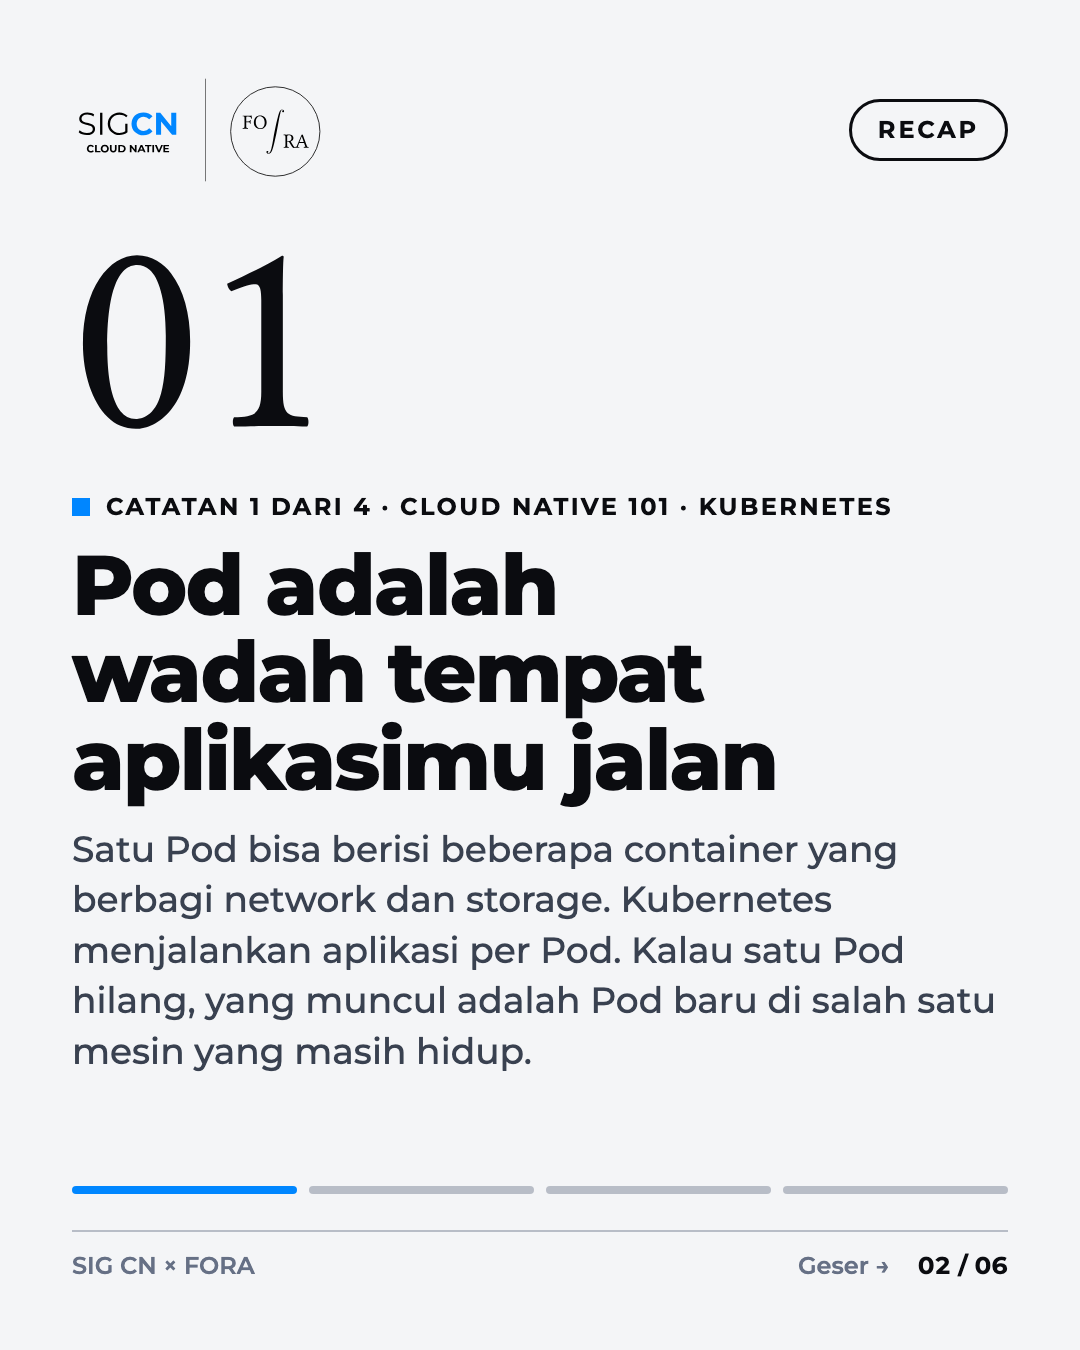
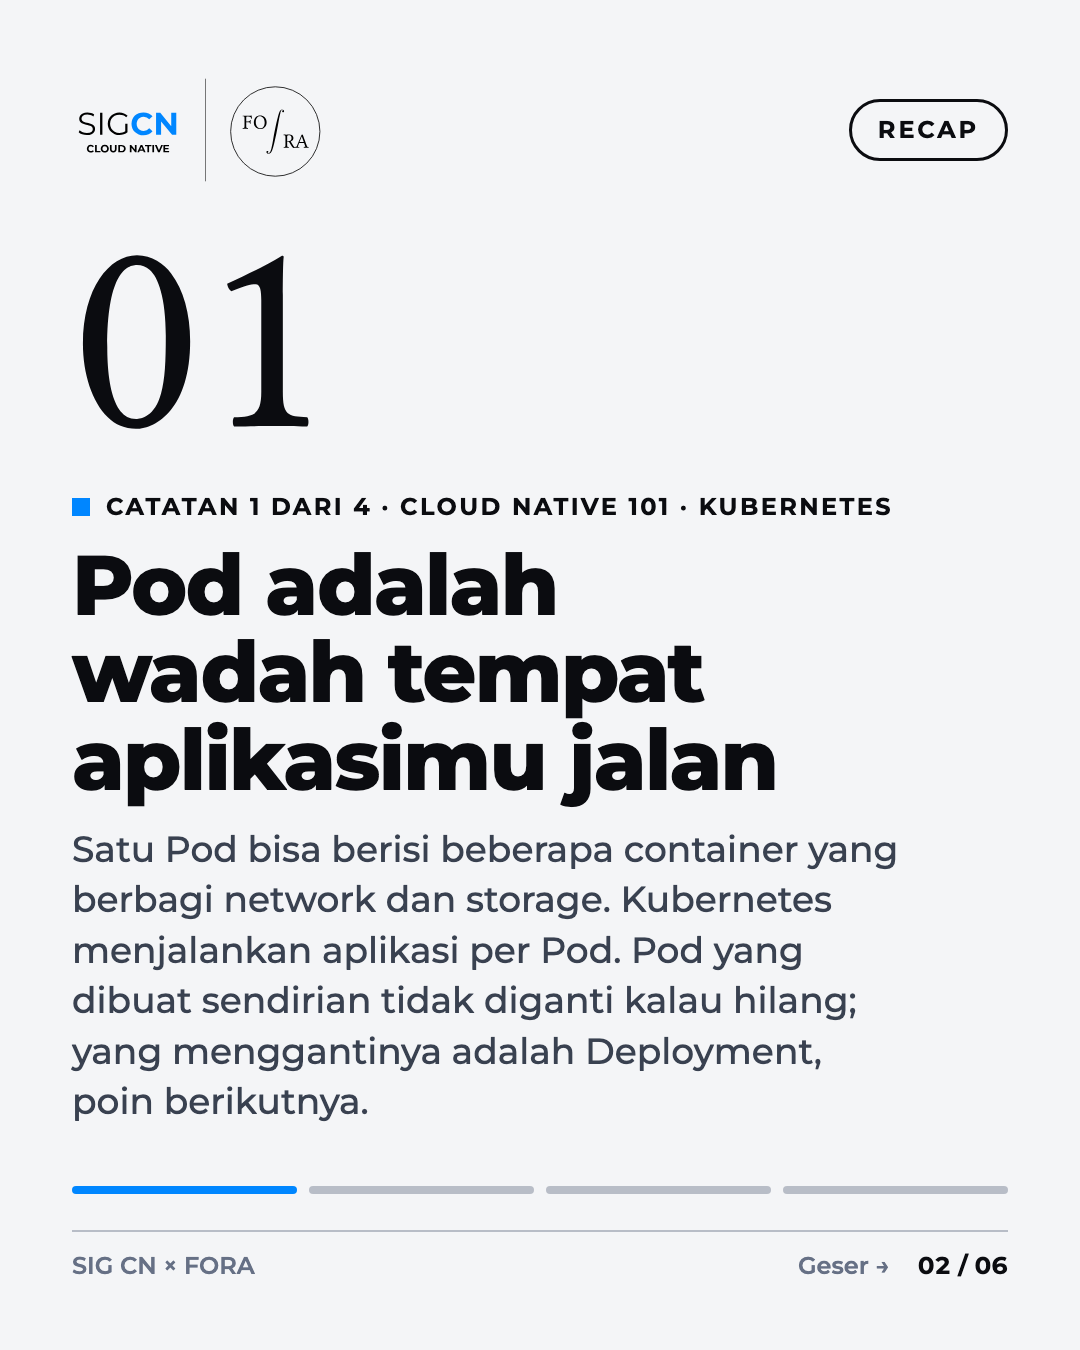
content: fix Dika's role and the Pod replacement claim (round 6 factual issues)

Changed region(s): [[0.0611, 0.6844, 0.9167, 0.84]]

diff --git a/examples/README.md b/examples/README.md
@@ -389,7 +389,7 @@ Kita ngobrol di voice channel fora-voice Discord FORA. Boleh dengarkan saja, bol
 **Instagram**
 
 ```text
-Dika (contoh) @dika_contoh, Software Engineer. Dika dulu developer, sekarang SRE, tugasnya menjaga sistem tetap jalan. Pindahnya mulai dari ikut jaga on-call, yaitu siaga kalau ada masalah di luar jam kerja.
+Dika (contoh) @dika_contoh, SRE. Dika dulu developer, sekarang SRE, tugasnya menjaga sistem tetap jalan. Pindahnya mulai dari ikut jaga on-call, yaitu siaga kalau ada masalah di luar jam kerja.
 
 Tanpa pembicara tamu, jadi yang cerita kita semua.
 
@@ -403,7 +403,7 @@ Langsung masuk voice channel fora-voice lewat discord.gg/rSepJu7Wb (ada juga di 
 **X 1/2**
 
 ```text
-Dika (contoh) @dika_contoh, Software Engineer. Dika dulu developer, sekarang SRE, tugasnya menjaga sistem tetap jalan. Pindahnya mulai dari ikut jaga on-call, yaitu siaga kalau ada masalah di luar jam kerja.
+Dika (contoh) @dika_contoh, SRE. Dika dulu developer, sekarang SRE, tugasnya menjaga sistem tetap jalan. Pindahnya mulai dari ikut jaga on-call, yaitu siaga kalau ada masalah di luar jam kerja.
 ```
 
 **X 2/2**
@@ -420,7 +420,7 @@ https://discord.gg/rSepJu7Wb
 ```text
 Ngobrol Karier di Tech (FORA)
 
-Dika (contoh) @dika_contoh, Software Engineer. Dika dulu developer, sekarang SRE, tugasnya menjaga sistem tetap jalan. Pindahnya mulai dari ikut jaga on-call, yaitu siaga kalau ada masalah di luar jam kerja.
+Dika (contoh) @dika_contoh, SRE. Dika dulu developer, sekarang SRE, tugasnya menjaga sistem tetap jalan. Pindahnya mulai dari ikut jaga on-call, yaitu siaga kalau ada masalah di luar jam kerja.
 
 Tanpa pembicara tamu, jadi yang cerita kita semua.
 
@@ -639,7 +639,7 @@ Kita ada di voice channel sig-cn-voice, undangannya https://discord.gg/rSepJu7Wb
 ```text
 Ini yang tercatat dari "Kubernetes untuk Pemula" (Sab, 12 Des).
 
-- Pod adalah wadah tempat aplikasimu jalan. Satu Pod bisa berisi beberapa container yang berbagi network dan storage. Kubernetes menjalankan aplikasi per Pod. Kalau satu Pod hilang, yang muncul adalah Pod baru di salah satu mesin yang masih hidup.
+- Pod adalah wadah tempat aplikasimu jalan. Satu Pod bisa berisi beberapa container yang berbagi network dan storage. Kubernetes menjalankan aplikasi per Pod. Pod yang dibuat sendirian tidak diganti kalau hilang; yang menggantinya adalah Deployment, poin berikutnya.
 - Deployment menjaga jumlah salinan Pod. Kamu bilang maunya tiga salinan (replika), dan kalau satu Pod mati, Deployment langsung membuat gantinya sampai jumlahnya pas.
 - Service memberi alamat yang stabil. IP Pod berubah tiap kali dibuat ulang, jadi akses aplikasi lewat Service. Jangan pakai IP Pod langsung.
 - Mulai debug dari kubectl describe dan logs. Event di describe dan output logs biasanya sudah cukup untuk tahu kenapa Pod gagal jalan.
@@ -684,7 +684,7 @@ Rekap "Kubernetes untuk Pemula" (Sab, 12 Des).
 
 Terima kasih Bima (contoh) @bima_contoh dan Sari (contoh) @sari_contoh. 14 orang ikut ngobrol di voice channel.
 
-1. Pod adalah wadah tempat aplikasimu jalan. Satu Pod bisa berisi beberapa container yang berbagi network dan storage. Kubernetes menjalankan aplikasi per Pod. Kalau satu Pod hilang, yang muncul adalah Pod baru di salah satu mesin yang masih hidup.
+1. Pod adalah wadah tempat aplikasimu jalan. Satu Pod bisa berisi beberapa container yang berbagi network dan storage. Kubernetes menjalankan aplikasi per Pod. Pod yang dibuat sendirian tidak diganti kalau hilang; yang menggantinya adalah Deployment, poin berikutnya.
 2. Deployment menjaga jumlah salinan Pod. Kamu bilang maunya tiga salinan (replika), dan kalau satu Pod mati, Deployment langsung membuat gantinya sampai jumlahnya pas.
 3. Service memberi alamat yang stabil. IP Pod berubah tiap kali dibuat ulang, jadi akses aplikasi lewat Service. Jangan pakai IP Pod langsung.
 4. Mulai debug dari kubectl describe dan logs. Event di describe dan output logs biasanya sudah cukup untuk tahu kenapa Pod gagal jalan.

diff --git a/examples/sigcn-kubernetes-pemula/captions/recap.md b/examples/sigcn-kubernetes-pemula/captions/recap.md
@@ -4,7 +4,7 @@
 
 Ini yang tercatat dari "Kubernetes untuk Pemula" (Sab, 12 Des).
 
-- Pod adalah wadah tempat aplikasimu jalan. Satu Pod bisa berisi beberapa container yang berbagi network dan storage. Kubernetes menjalankan aplikasi per Pod. Kalau satu Pod hilang, yang muncul adalah Pod baru di salah satu mesin yang masih hidup.
+- Pod adalah wadah tempat aplikasimu jalan. Satu Pod bisa berisi beberapa container yang berbagi network dan storage. Kubernetes menjalankan aplikasi per Pod. Pod yang dibuat sendirian tidak diganti kalau hilang; yang menggantinya adalah Deployment, poin berikutnya.
 - Deployment menjaga jumlah salinan Pod. Kamu bilang maunya tiga salinan (replika), dan kalau satu Pod mati, Deployment langsung membuat gantinya sampai jumlahnya pas.
 - Service memberi alamat yang stabil. IP Pod berubah tiap kali dibuat ulang, jadi akses aplikasi lewat Service. Jangan pakai IP Pod langsung.
 - Mulai debug dari kubectl describe dan logs. Event di describe dan output logs biasanya sudah cukup untuk tahu kenapa Pod gagal jalan.
@@ -41,7 +41,7 @@ Rekap "Kubernetes untuk Pemula" (Sab, 12 Des).
 
 Terima kasih Bima (contoh) @bima_contoh dan Sari (contoh) @sari_contoh. 14 orang ikut ngobrol di voice channel.
 
-1. Pod adalah wadah tempat aplikasimu jalan. Satu Pod bisa berisi beberapa container yang berbagi network dan storage. Kubernetes menjalankan aplikasi per Pod. Kalau satu Pod hilang, yang muncul adalah Pod baru di salah satu mesin yang masih hidup.
+1. Pod adalah wadah tempat aplikasimu jalan. Satu Pod bisa berisi beberapa container yang berbagi network dan storage. Kubernetes menjalankan aplikasi per Pod. Pod yang dibuat sendirian tidak diganti kalau hilang; yang menggantinya adalah Deployment, poin berikutnya.
 2. Deployment menjaga jumlah salinan Pod. Kamu bilang maunya tiga salinan (replika), dan kalau satu Pod mati, Deployment langsung membuat gantinya sampai jumlahnya pas.
 3. Service memberi alamat yang stabil. IP Pod berubah tiap kali dibuat ulang, jadi akses aplikasi lewat Service. Jangan pakai IP Pod langsung.
 4. Mulai debug dari kubectl describe dan logs. Event di describe dan output logs biasanya sudah cukup untuk tahu kenapa Pod gagal jalan.

diff --git a/examples/fora-ngobrol-karier/captions/speakers.md b/examples/fora-ngobrol-karier/captions/speakers.md
@@ -2,7 +2,7 @@
 
 ## Instagram
 
-Dika (contoh) @dika_contoh, Software Engineer. Dika dulu developer, sekarang SRE, tugasnya menjaga sistem tetap jalan. Pindahnya mulai dari ikut jaga on-call, yaitu siaga kalau ada masalah di luar jam kerja.
+Dika (contoh) @dika_contoh, SRE. Dika dulu developer, sekarang SRE, tugasnya menjaga sistem tetap jalan. Pindahnya mulai dari ikut jaga on-call, yaitu siaga kalau ada masalah di luar jam kerja.
 
 Tanpa pembicara tamu, jadi yang cerita kita semua.
 
@@ -14,7 +14,7 @@ Langsung masuk voice channel fora-voice lewat discord.gg/rSepJu7Wb (ada juga di 
 
 ## X 1/2
 
-Dika (contoh) @dika_contoh, Software Engineer. Dika dulu developer, sekarang SRE, tugasnya menjaga sistem tetap jalan. Pindahnya mulai dari ikut jaga on-call, yaitu siaga kalau ada masalah di luar jam kerja.
+Dika (contoh) @dika_contoh, SRE. Dika dulu developer, sekarang SRE, tugasnya menjaga sistem tetap jalan. Pindahnya mulai dari ikut jaga on-call, yaitu siaga kalau ada masalah di luar jam kerja.
 
 ## X 2/2
 
@@ -27,7 +27,7 @@ https://discord.gg/rSepJu7Wb
 
 Ngobrol Karier di Tech (FORA)
 
-Dika (contoh) @dika_contoh, Software Engineer. Dika dulu developer, sekarang SRE, tugasnya menjaga sistem tetap jalan. Pindahnya mulai dari ikut jaga on-call, yaitu siaga kalau ada masalah di luar jam kerja.
+Dika (contoh) @dika_contoh, SRE. Dika dulu developer, sekarang SRE, tugasnya menjaga sistem tetap jalan. Pindahnya mulai dari ikut jaga on-call, yaitu siaga kalau ada masalah di luar jam kerja.
 
 Tanpa pembicara tamu, jadi yang cerita kita semua.
 
